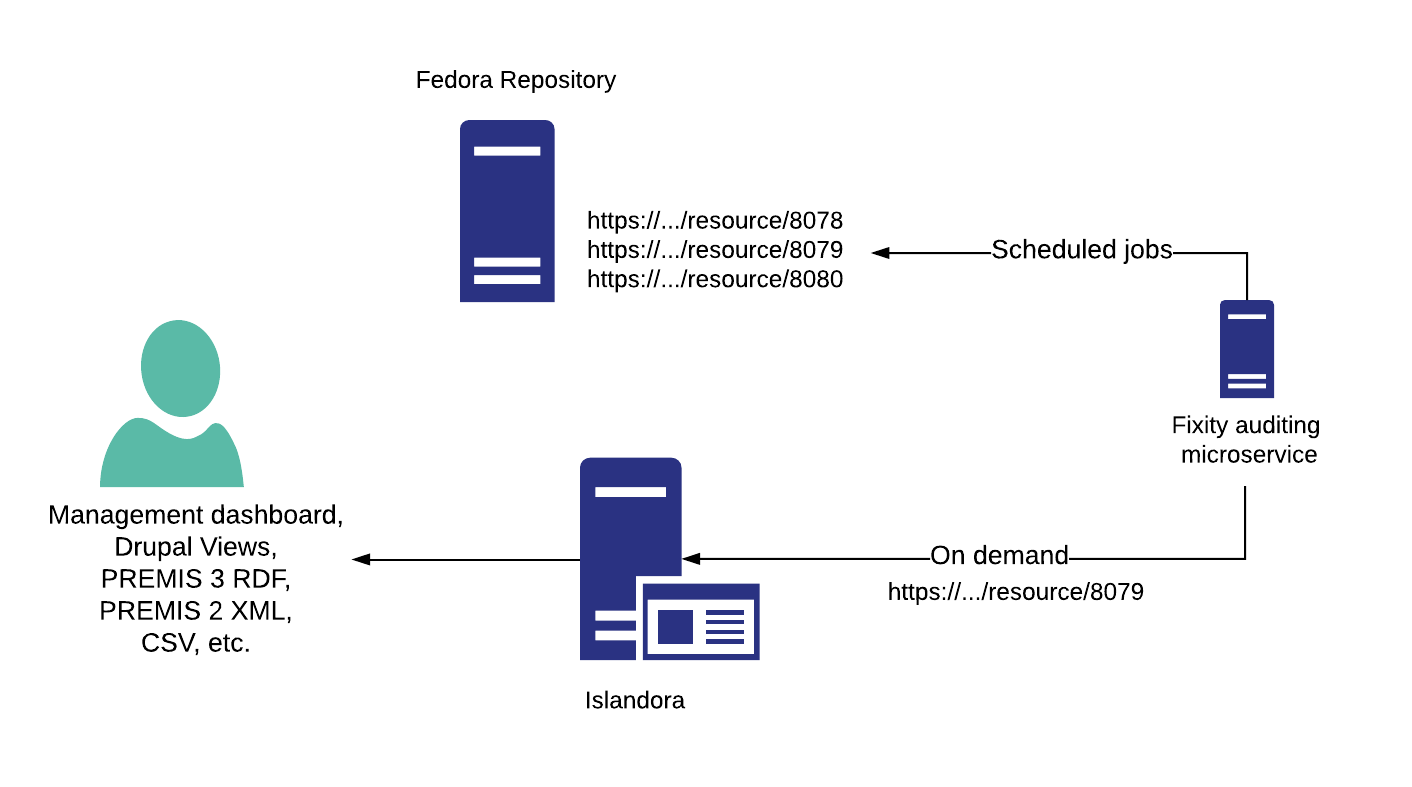
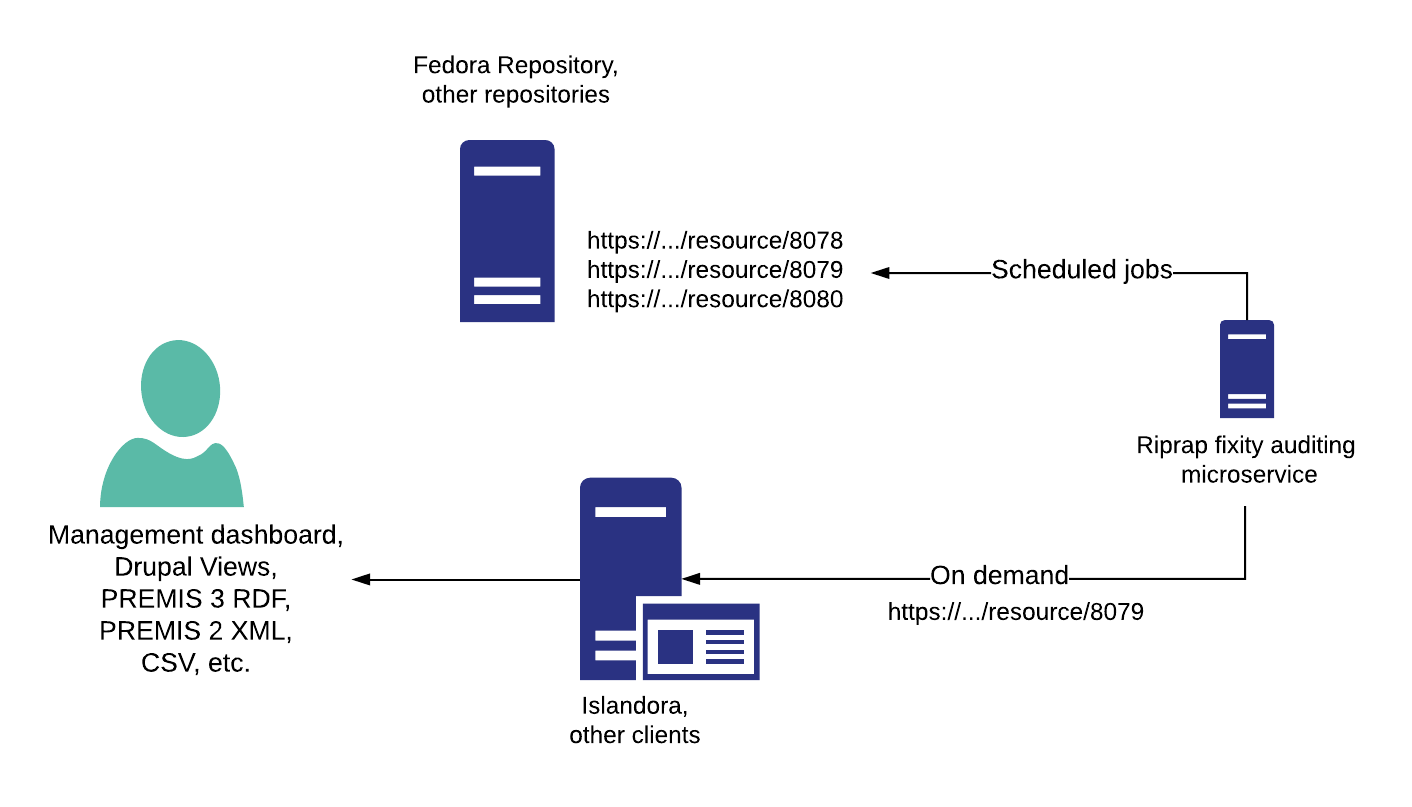
Updated overview diagram, README.md.

diff --git a/README.md b/README.md
@@ -2,7 +2,9 @@
 
 ## Overview
 
-A fixity-auditing microservice that addresses https://github.com/Islandora-CLAW/CLAW/issues/847. Developed as a successfor to Islandora 7.x's [Checksum Checker](https://github.com/Islandora/islandora_checksum_checker) module, it is intended primarily to be used with repositories compliant with the [Fedora API Specification](https://fedora.info/spec/), but can be used to provide fixity validation for other repositories as well (e.g., an [OCFL](https://ocfl.io/) repository). It periodcally requests fixity digests for resources from a repository and compares the digest with a previously request digest. It then persists the outocome of that comparison so the process can be repeated again. Riprap also provides a REST interface so that external applications (in Islandora's case, Drupal) can retrieve fixity checking event data for use in reports, etc.
+A fixity-auditing microservice that addresses https://github.com/Islandora-CLAW/CLAW/issues/847. Developed as a successfor to Islandora 7.x's [Checksum Checker](https://github.com/Islandora/islandora_checksum_checker) module, it is intended primarily to be used with repositories compliant with the [Fedora API Specification](https://fedora.info/spec/), but can be used to provide fixity validation for other repositories as well (e.g., an [OCFL](https://ocfl.io/) repository). In fact, Riprap ships with sample plugins that allow it to monitor the fixity of files on a standard attached filesystem and call `sha1sum` to get their current digests.
+
+Riprap periodcally requests fixity digests for resources from a repository and compares the digest with a previously request digest. It then persists the outocome of that comparison so the process can be repeated again. Riprap also provides a REST interface so that external applications (in Islandora's case, Drupal) can retrieve fixity checking event data for use in reports, etc.
 
 ![Overview](docs/images/overview.png)
 
@@ -12,7 +14,7 @@ All events must have a value of `suc` or `fail` (using values from the PREMIS Ev
 
 ## Current status
 
-Riprap is still in early development, but all the major functional components are working using test/sample data and the mock Fedora repository endpoint (see below). Riprap is not yet ready for production but will be by December 2018.
+Riprap is still in early development, but all the major functional components are working using test/sample data and the mock Fedora repository endpoint (see below). Riprap will be ready for production by December 2018.
 
 ## Requirements
 
@@ -225,7 +227,7 @@ One of Riprap's principle design requirements is flexibility. To meet this goal,
 * "fetchresourcelist" plugins fetch a set of Fedora resource URLs to fixity check (e.g., from the Fedora repository's triplestore, from Drupal, from a CSV file). A sample plugin that reads resource URLs from a text file, `app:riprap:plugin:fetch:from:file`, already exists and is configured in `config/services.yaml`. Multiple fetchresourcelist plugins can be configured at once.
 * "fetchdigest" plugins query an external utility or service to get the digest of the current resource. A plugin that queries a Fedora API Specification-compliant repository, `app:riprap:plugin:fetchdigest:from:fedoraapi`, and is configured in `config/services.yaml`. Only one fetchdigest plugin can be configured.
 * "persist" plugins persist data after performing a fixity check on each Fedora resource (e.g. to a RDBMS, into the Fedora repository, etc.). A plugin to persist fixity events to a relational database, `app:riprap:plugin:persist:to:database`, already exists and is configured in `config/services.yaml`. Multiple persist plugins can be configured at once.
-* "postcheck" plugins execute after performing a fixity check on each Fedora resource. Two plugins of this type currently exist: a plugin that sends an email on failure, `app:riprap:plugin:postcheck:mailfailures`, and a (not yet complete) plugin that will be able to migrate fixity events from a legacy system (in this case, Fedora 3.x AUDIT data). Both plugins are confiured in `config/services.yaml`. Multiple postcheck plugins can be configured at once.
+* "postcheck" plugins execute after performing a fixity check on each Fedora resource. Two plugins of this type currently exist (neither one is complete yet): a plugin that sends an email on failure, `app:riprap:plugin:postcheck:mailfailures`, and a plugin that migrates fixity events from Fedora 3.x AUDIT data. Both plugins are confiured in `config/services.yaml`. Multiple postcheck plugins can be configured at once.
 
 A second set of simple example plugins is included in the `resources/filesystemexample/src/Command` directory. See their [README.md](resources/filesystemexample/README.md) file for more information.
 
